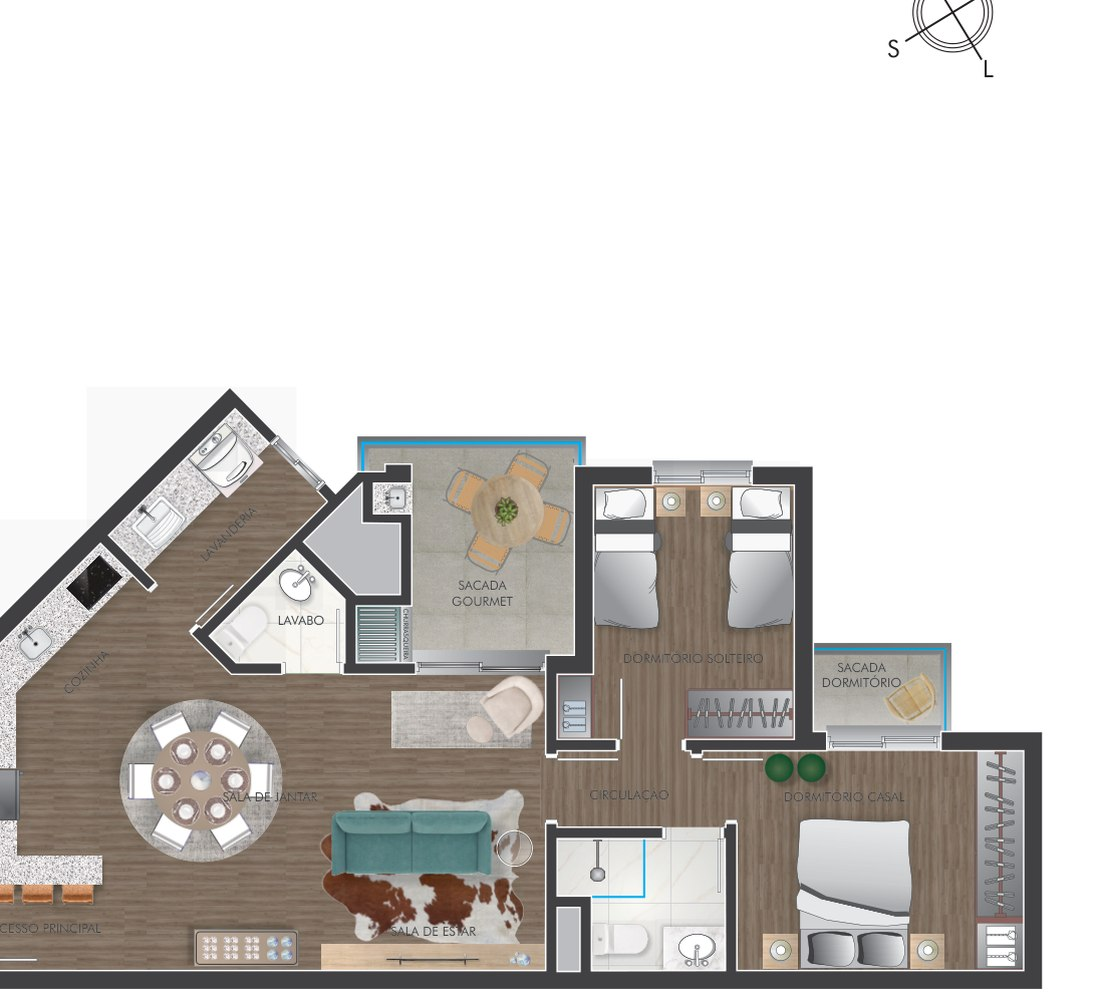
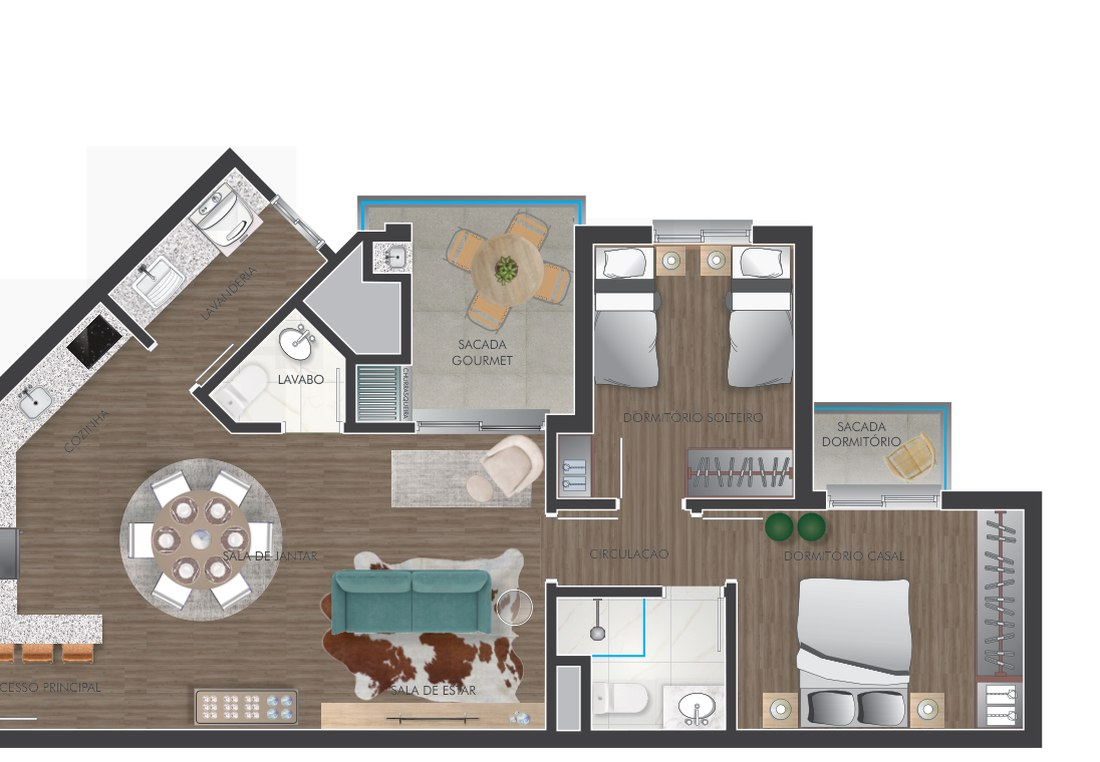
Ajusta plantas e carrossel: implantação com orientação solar
Remove rosa dos ventos das plantas individuais (cada final tem posição
solar distinta) e adiciona a implantação do pavimento com os 6 finais
e a rosa dos ventos completa. Carrossel passa a ter só ambientes
internos; salão de festas e piscina seguem nas seções de áreas comuns.

diff --git a/index.html b/index.html
@@ -308,12 +308,12 @@
     </div>
 
     <div class="plantas-intro">
-      <p class="eyebrow">3 plantas · rosa dos ventos em cada uma</p>
-      <h2>Escolha a unidade pela orientação solar, não só pela metragem.</h2>
+      <p class="eyebrow">3 plantas · 6 unidades por andar</p>
+      <h2>Três formas de morar. Todas com sacada gourmet.</h2>
     </div>
     <div class="plantas-grid">
       <div class="planta-card">
-        <img src="img/planta-final-01-06.jpg" alt="Planta e orientação solar dos apartamentos final 01 e 06">
+        <img src="img/planta-final-01-06.jpg" alt="Planta dos apartamentos final 01 e 06">
         <div class="planta-body">
           <h3>Final 01 e 06</h3>
           <p class="planta-meta">03 dormitórios · sacada gourmet</p>
@@ -327,7 +327,7 @@
         </div>
       </div>
       <div class="planta-card">
-        <img src="img/planta-final-02-05.jpg" alt="Planta e orientação solar dos apartamentos final 02 e 05">
+        <img src="img/planta-final-02-05.jpg" alt="Planta dos apartamentos final 02 e 05">
         <div class="planta-body">
           <h3>Final 02 e 05</h3>
           <p class="planta-meta">03 dormitórios · sacada gourmet</p>
@@ -341,7 +341,7 @@
         </div>
       </div>
       <div class="planta-card">
-        <img src="img/planta-final-03-04.jpg" alt="Planta e orientação solar dos apartamentos final 03 e 04">
+        <img src="img/planta-final-03-04.jpg" alt="Planta dos apartamentos final 03 e 04">
         <div class="planta-body">
           <h3>Final 03 e 04</h3>
           <p class="planta-meta">02 dormitórios · sacada gourmet</p>
@@ -353,6 +353,16 @@
           </ul>
         </div>
       </div>
+    </div>
+
+    <div class="two-col" style="margin-top:80px;">
+      <div>
+        <p class="eyebrow">Implantação do pavimento</p>
+        <h2>A orientação solar de cada final, num único desenho.</h2>
+        <p>Seis unidades por andar, distribuídas em três alas. A implantação mostra a posição exata de cada final no pavimento e a rosa dos ventos — o dado que define insolação da sacada, luz da manhã nos dormitórios e temperatura da sala ao longo do dia.</p>
+        <p>Na visita, o corretor cruza a implantação com o andar disponível pra encontrar a unidade com a orientação que você procura.</p>
+      </div>
+      <div class="img-col"><img src="img/implantacao.jpg" alt="Implantação do pavimento com os 6 finais e orientação solar" style="background:#fff;padding:12px;"></div>
     </div>
   </div>
 </section>
@@ -379,8 +389,6 @@
         <div class="slide"><img src="img/decorado-03-04.jpg" alt="Sala de estar decorada — Final 03 e 04"><div class="slide-label">Sala de Estar — Final 03 e 04</div></div>
         <div class="slide"><img src="img/dormitorio-sacada.jpg" alt="Dormitório Casal Sacada decorado"><div class="slide-label">Dormitório Casal Sacada</div></div>
         <div class="slide"><img src="img/dormitorio.jpg" alt="Dormitório Casal Closet decorado"><div class="slide-label">Dormitório Casal Closet</div></div>
-        <div class="slide"><img src="img/salao-festas.jpg" alt="Salão de Festas Master decorado"><div class="slide-label">Salão de Festas Master</div></div>
-        <div class="slide"><img src="img/piscina-aquecida.jpg" alt="Piscina Aquecida"><div class="slide-label">Piscina Aquecida</div></div>
       </div>
       <div class="carousel-nav">
         <button type="button" aria-label="Anterior" onclick="document.getElementById('carousel').scrollBy({left:-400,behavior:'smooth'})">←</button>